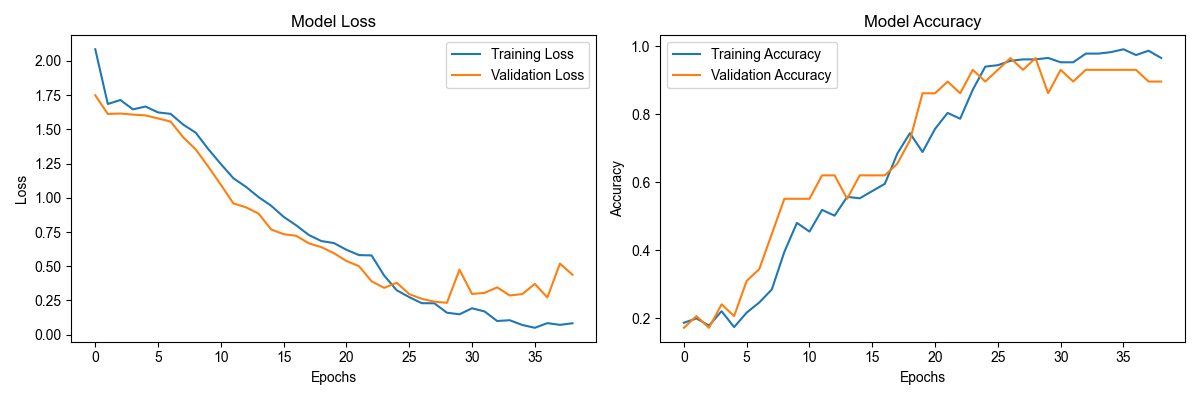
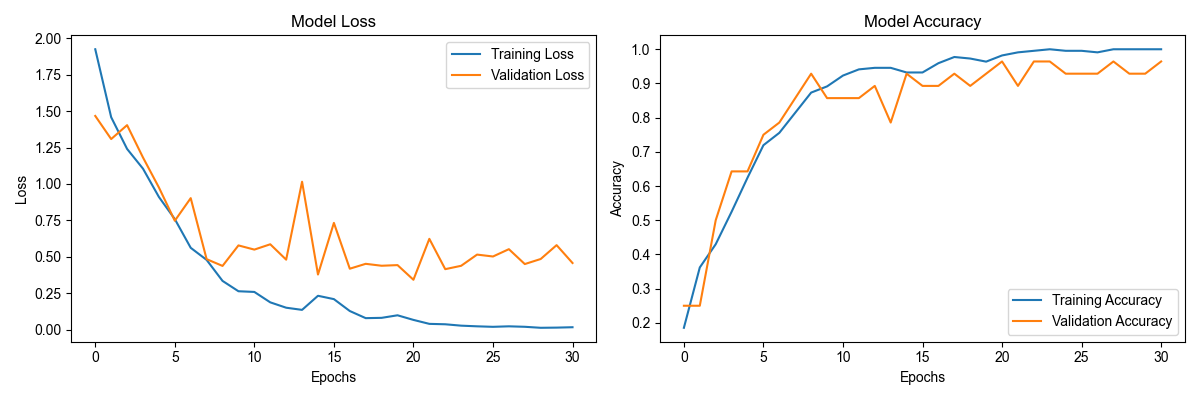
process_samples.py添加了路径合成机制，自动删除机制，优化了书写段识别机制（准备开始写ros包，事先存档。）

diff --git a/process_samples.py b/process_samples.py
@@ -6,7 +6,7 @@ import matplotlib.pyplot as plt
 from scipy.signal import savgol_filter
 from tqdm import tqdm
 import chardet
-
+from scipy.interpolate import interp1d
 # 目录路径配置
 # 基础路径参数用于构建完整的输入、输出和可视化路径
 # 当modify_last_subdir为True时，将使用last_subdir替换基础路径中的最后一个子目录
@@ -16,7 +16,7 @@ CONFIG = {
     "base_visualization_dir": "visualizations",  # 基础可视化目录路径，所有图表的根目录
 
     "base_delete_dir": "dataset/deleted",  # 基础删除目录路径
-    "last_subdir": "test/bk/yuce",  # 最后一个子目录名称，用于路径的动态调整
+    "last_subdir": "test/bk/e",  # 最后一个子目录名称，用于路径的动态调整
     "modify_last_subdir": True,  # 是否仅修改路径中的最后一个子目录
                                     # True: 使用base_*_dir + last_subdir构建路径
                                     # False: 直接使用input_dir/output_dir等完整路径
@@ -25,7 +25,7 @@ CONFIG = {
     "visualization_dir": "visualizations/b_rl",  # 完整可视化目录路径 (自动生成)
     # "incomplete_files_dir": "dataset/deleted/a_rl",  # 已废弃，使用delete_dir代替
     "min_writing_length": 20,  # 最小有效书写长度
-    "seq_length": 800,  # 标准化序列长度
+    "seq_length": 50,  # 标准化序列长度
     "visualize_samples": True,  # 是否可视化处理结果
     "filter_window": 7,  # 滤波窗口大小
     "filter_polyorder": 3,  # 滤波多项式阶数
@@ -40,7 +40,9 @@ CONFIG = {
     "debug_segment": True,  # 是否输出段详细信息
     "move_incomplete_files": False,  # 是否移动数据组不足的文件
     "min_samples_to_keep": 6,        # 保留文件的最小样本数阈值
-
+    # 添加校验参数
+    "min_seq_length": 50,
+    "max_seq_length": 1000
 }
 
 
@@ -364,19 +366,23 @@ def process_file(file_path, config):
         if is_valid:
             sample = normalized_segment
             # 标准化序列长度
-            if len(sample) < config["seq_length"]:
-                sample = np.pad(sample, (0, config["seq_length"] - len(sample)), 'constant')
-            else:
-                sample = sample[:config["seq_length"]]
+            if len(sample) != config["seq_length"]:
+                # 原始样本的索引
+                x_old = np.arange(len(sample))
+                # 目标样本的索引
+                x_new = np.linspace(0, len(sample) - 1, config["seq_length"])
+                # 创建插值函数
+                f = interp1d(x_old, sample, kind='linear')
+                # 进行插值得到新样本
+                sample = f(x_new)
             samples.append(sample)
-
     # 可视化分割结果
     if config["visualize_samples"] and split_points:
         visualize_splits(resistance, split_points, file_name, config, segment_status, start_idx)
 
     # 仅当文件不会被移动时才保存样本
     save_samples = not (config["move_incomplete_files"] and 0 < len(samples) < config["min_samples_to_keep"])
-    
+
     # 保存处理后的数据
     if save_samples and samples and not os.path.exists(config["output_dir"]):
         os.makedirs(config["output_dir"])
@@ -425,7 +431,7 @@ def process_dataset(config):
     """处理整个数据集"""
     # 更新目录路径
     config = update_directory_paths(config)
-    
+
     if not os.path.exists(config["input_dir"]):
         os.makedirs(config["input_dir"])
         print(f"创建输入目录: {config['input_dir']}")
@@ -443,14 +449,14 @@ def process_dataset(config):
         if num_samples > 0:
             total_samples += num_samples
             processed_files += 1
-        
+
         # 检查是否需要移动数据组不足的文件
         # 使用配置的样本阈值判断是否移动文件
         if config["move_incomplete_files"] and num_samples < config["min_samples_to_keep"]:
             # 确保目标目录存在
             if not os.path.exists(config["delete_dir"]):
                 os.makedirs(config["delete_dir"])
-            
+
             # 移动文件到目标目录
             target_path = os.path.join(config["delete_dir"], file)
             try:
@@ -469,4 +475,5 @@ def process_dataset(config):
 
 
 if __name__ == "__main__":
+    process_dataset(CONFIG)
     process_dataset(CONFIG)

diff --git a/train_model.py b/train_model.py
@@ -4,7 +4,8 @@ import matplotlib.pyplot as plt
 from sklearn.preprocessing import StandardScaler
 from sklearn.model_selection import train_test_split
 from tensorflow.keras.models import Sequential
-from tensorflow.keras.layers import Conv1D, MaxPooling1D, LSTM, Dense, Dropout, Bidirectional
+from tensorflow.keras.layers import Conv1D, MaxPooling1D, LSTM, Dense, Dropout, Bidirectional, GlobalAveragePooling1D  # 添加GlobalAveragePooling1D
+
 from tensorflow.keras.callbacks import EarlyStopping, ModelCheckpoint
 from tensorflow.keras.utils import to_categorical
 from sklearn.metrics import confusion_matrix, classification_report
@@ -15,15 +16,19 @@ import json  # 用于保存label_map
 CONFIG = {
     "data_dir": "processed_data/test/bk",  # 处理后样本目录
     "model_dir": "models/test_bk",  # 模型保存目录
-    "seq_length": 800,  # 序列长度
+    "seq_length": 50,  # 统一序列长度
     "batch_size": 32,  # 训练批次大小
     "epochs": 500,  # 最大训练轮数
     "n_classes": 10,  # 分类类别数（需根据实际数据修改）
+    # 添加校验参数
+    "min_seq_length": 50,
+    "max_seq_length": 1000,
+    "use_lstm": False,  # 新增LSTM开关配置
 }
 
 
 # === 数据加载与预处理 ===
-def load_processed_data(data_dir, seq_length=800):
+def load_processed_data(data_dir, seq_length=None):
     """加载处理后的样本数据及标签"""
     all_samples = []
     all_labels = []
@@ -66,6 +71,10 @@ def load_processed_data(data_dir, seq_length=800):
     # 合并所有样本
     X = np.concatenate(all_samples, axis=0)
     y = np.array(all_labels)
+
+    # 添加长度校验
+    if seq_length < CONFIG["min_seq_length"] or seq_length > CONFIG["max_seq_length"]:
+        raise ValueError(f"序列长度{seq_length}超出允许范围({CONFIG['min_seq_length']}-{CONFIG['max_seq_length']})")
 
     # 重塑数据以适应CNN-LSTM输入: (样本数, 序列长度, 特征数)
     X = X.reshape(-1, seq_length, 1)
@@ -119,14 +128,18 @@ def build_cnn_lstm_model(seq_length=800, n_classes=10):
         MaxPooling1D(pool_size=2),
         Dropout(0.1),
 
-        # LSTM层 - 分析时序依赖
-        Bidirectional(LSTM(128, return_sequences=True)),
-        Dropout(0.3),
+        # 新增LSTM开关逻辑
+        *([  # 当use_lstm=True时添加的层
+            Bidirectional(LSTM(128, return_sequences=True)),
+            Dropout(0.3),
+            Bidirectional(LSTM(64)),
+            Dropout(0.3),
+        ] if CONFIG["use_lstm"] else [
+            # 当关闭LSTM时可选的替代结构（可选）
+            GlobalAveragePooling1D()
+        ]),
 
-        Bidirectional(LSTM(64)),
-        Dropout(0.3),
-
-        # 分类输出层
+        # 分类输出层保持不变
         Dense(64, activation='relu'),
         Dense(n_classes, activation='softmax')
     ])

diff --git a/predict.py b/predict.py
@@ -16,7 +16,7 @@ PROCESS_CONFIG = {
     "output_dir": "processed_data/test",  # 处理后NPY保存目录
     "visualization_dir": "visualizations/test",  # 可视化保存目录
     "min_writing_length": 28,  # 最小有效书写长度
-    "seq_length": 800,  # 标准化序列长度
+    "seq_length": 50,  # 标准化序列长度
     "visualize_samples": False,  # 处理时不生成可视化
     "filter_window": 7,  # 滤波窗口大小
     "filter_polyorder": 3,  # 滤波多项式阶数
@@ -35,9 +35,13 @@ PROCESS_CONFIG = {
 PREDICT_CONFIG = {
     "model_path": "models/test_bk/best_model.h5",  # 模型路径
     "processed_dir": "predict_samples/bk/xunlian/a",  # 处理后NPY目录
-    "output_dir": "prediction_results/2.0.2/xunlian_a",  # 预测结果保存目录
-    "seq_length": 800,  # 序列长度
+    "output_dir": "prediction_results/2.0.4/xunlian_a",  # 预测结果保存目录
+    "seq_length": 50,  # 序列长度
     "global_normalization": True,  # 使用全局归一化
+    # 原有配置保持不变
+    # 添加校验参数
+    "min_seq_length": 50,
+    "max_seq_length": 1000
 }
 
 # === 绘图配置 ===
@@ -200,10 +204,11 @@ def generate_samples(resistance, config):
 
         if descent >= config.get("writing_descent_threshold", 0.4):
             sample = normalized_segment
-            if len(sample) < config.get("seq_length", 800):
-                sample = np.pad(sample, (0, config.get("seq_length", 800) - len(sample)), 'constant')
+            # 修改硬编码引用
+            if len(sample) < config["seq_length"]:
+                sample = np.pad(sample, (0, config["seq_length"] - len(sample)), 'constant')
             else:
-                sample = sample[:config.get("seq_length", 800)]
+                sample = sample[:config["seq_length"]]
             samples.append(sample)
 
     return samples
